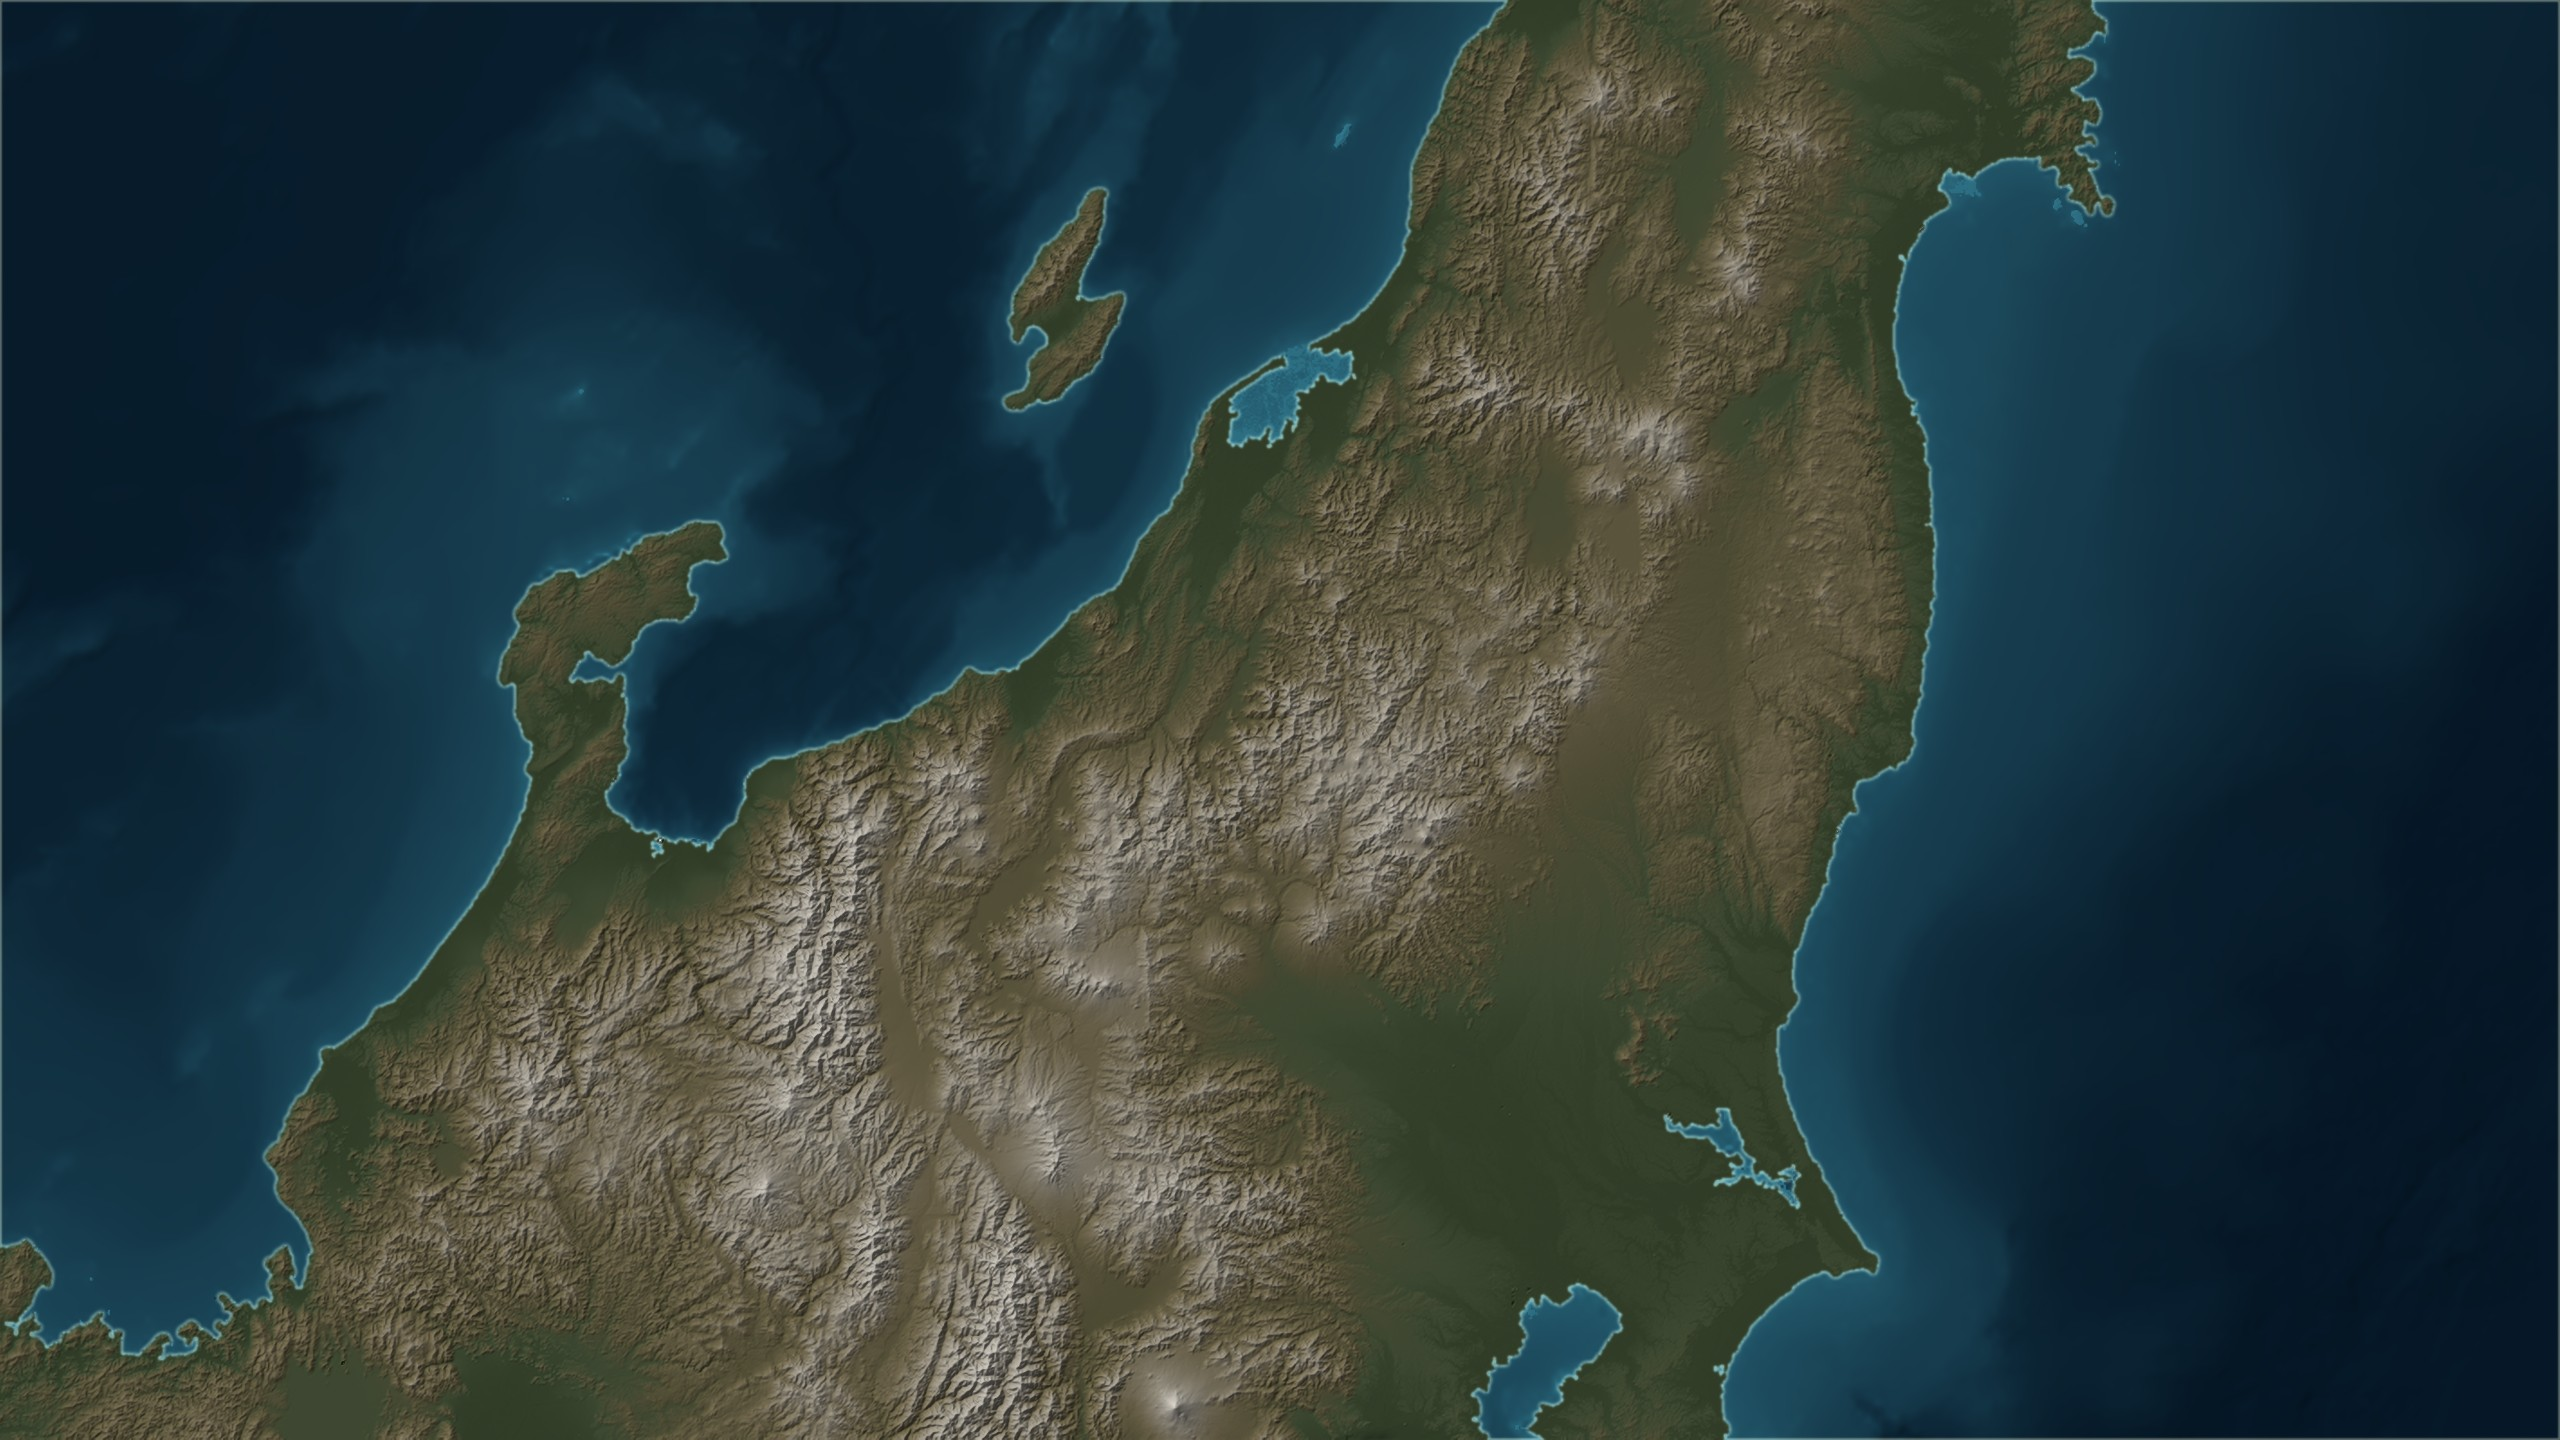
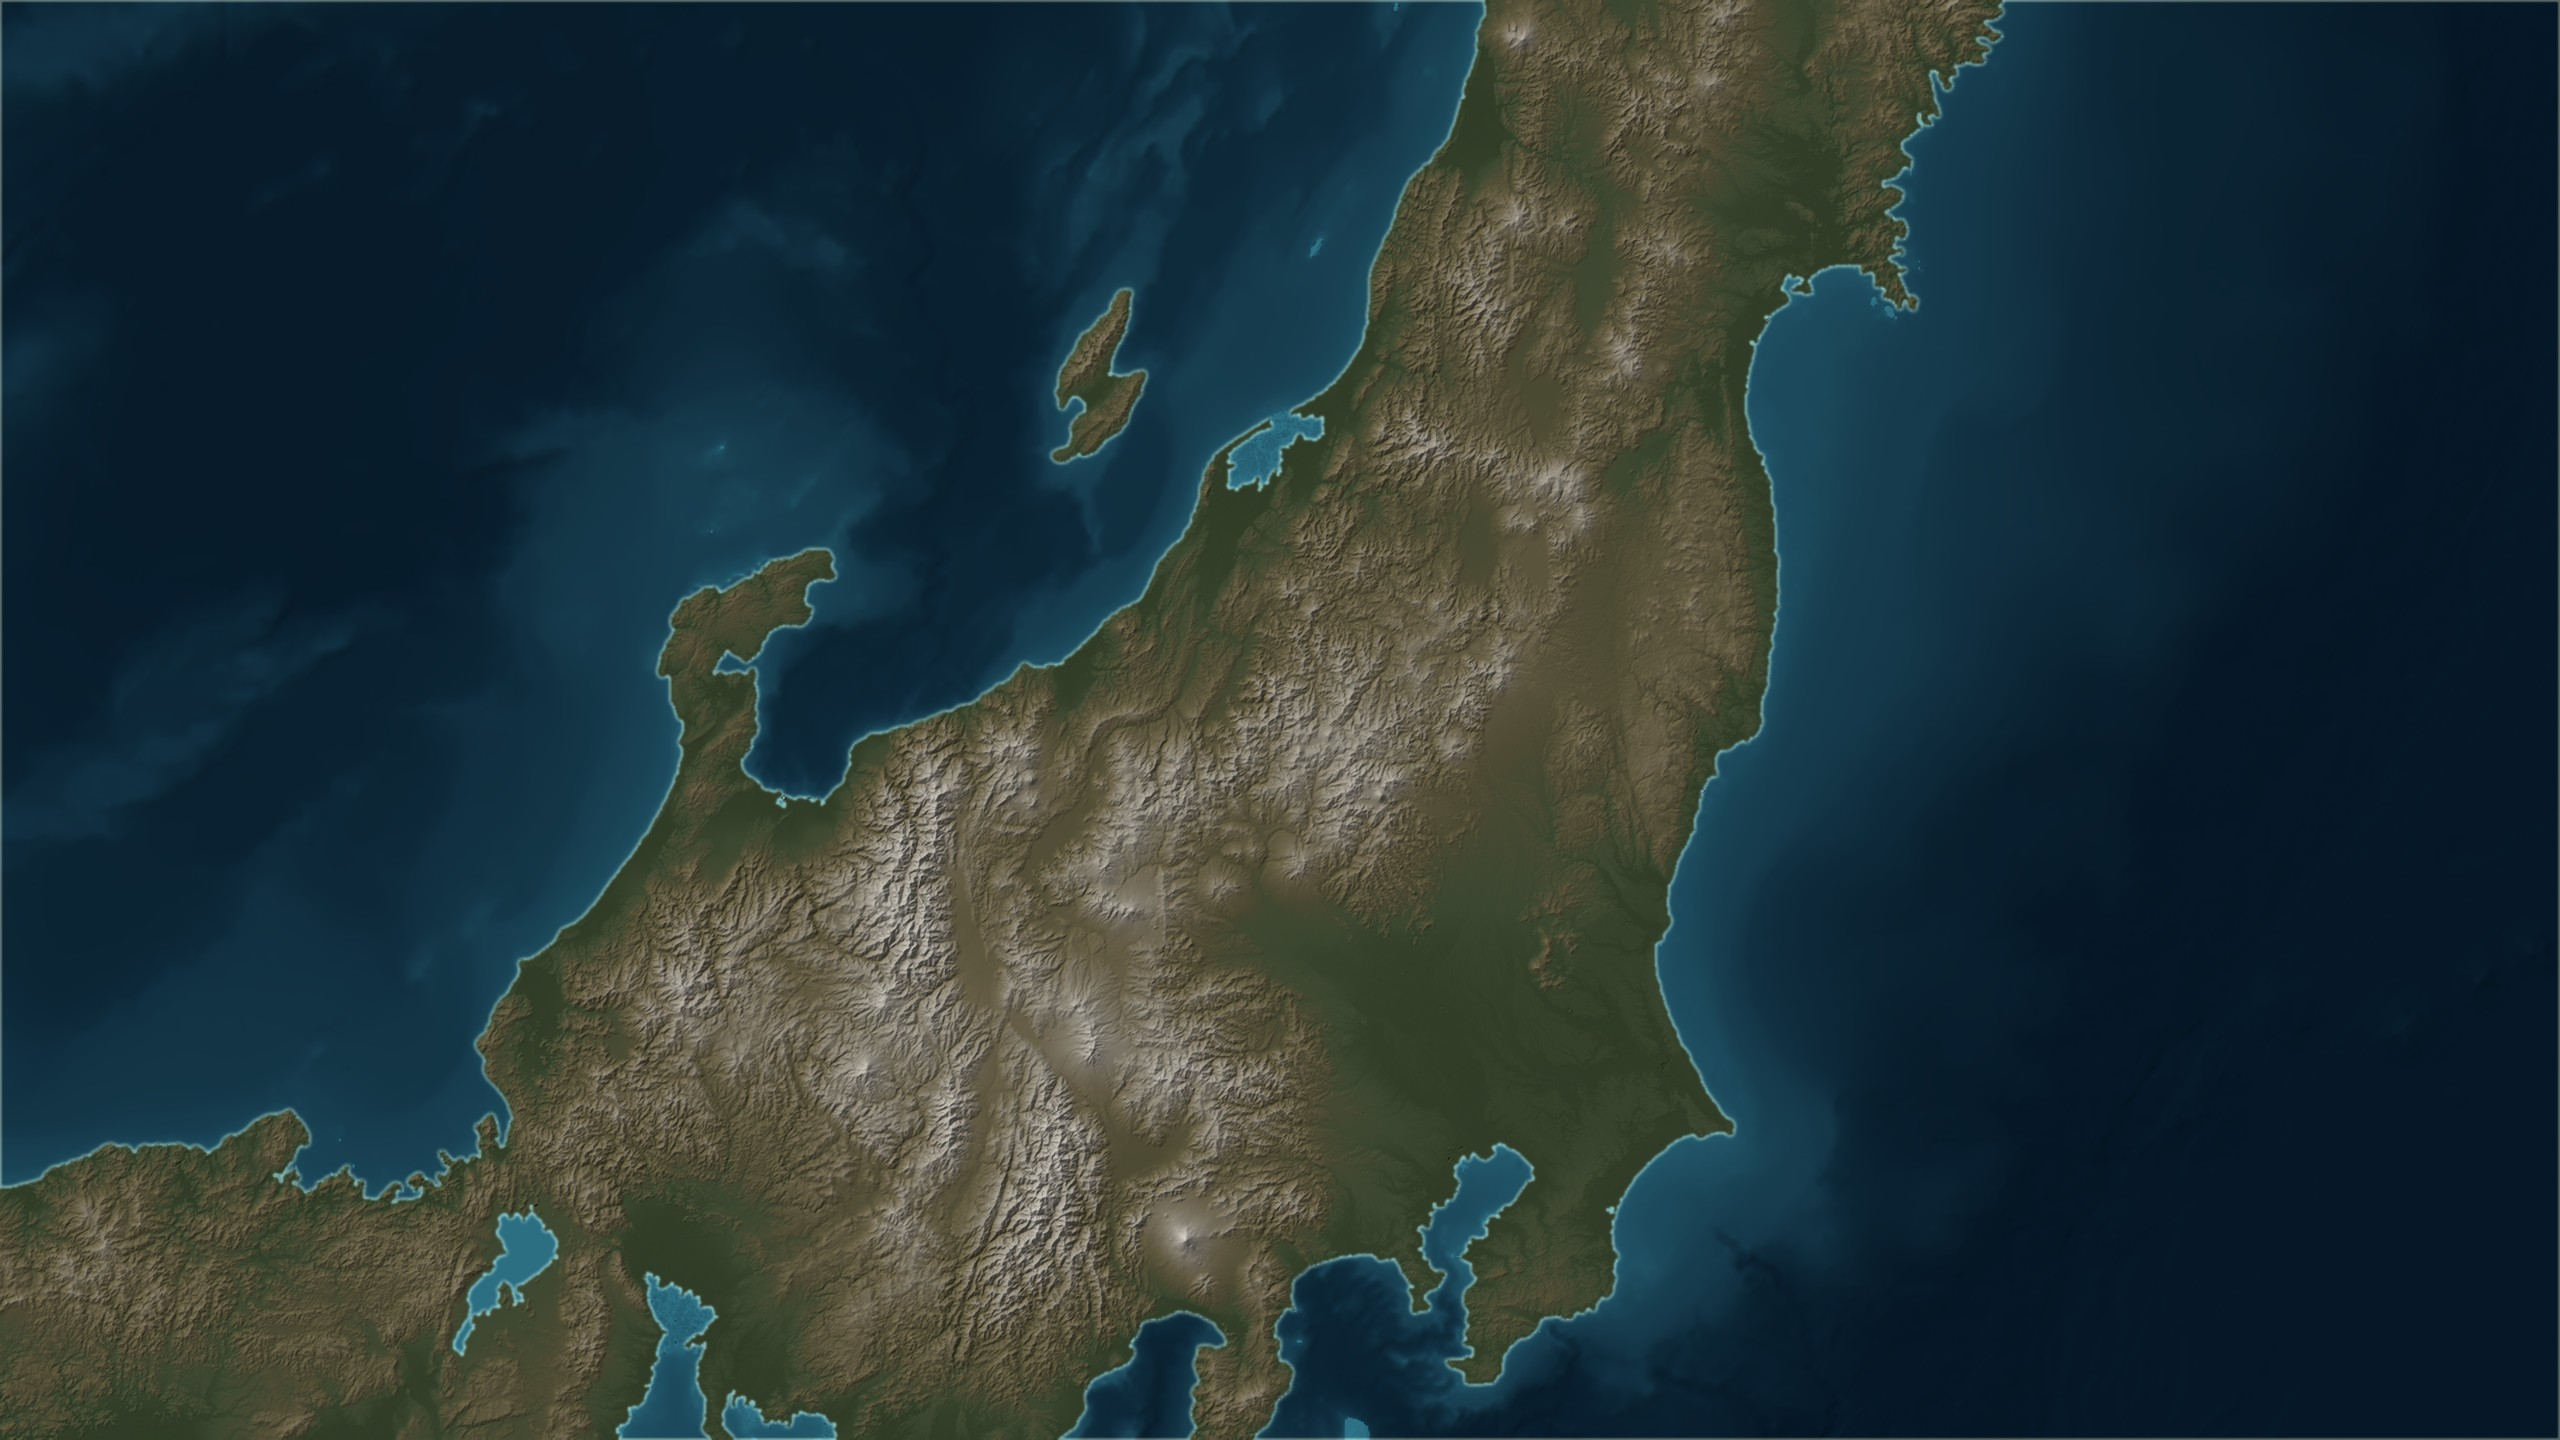
habi-sokushin：図解・地図の見え方を修正
Claude-Session: https://claude.ai/code/session_01BYpZQXYNUwHTnyuBiz7NfV

diff --git a/habi-sokushin/src/scenes/Clue18Fly.tsx b/habi-sokushin/src/scenes/Clue18Fly.tsx
@@ -1,7 +1,8 @@
 import {useVideoConfig} from 'remotion';
 import {Beat, captionFrame} from '../components/Beat';
 import {Stage} from '../components/Cinema';
-import {BigYears, Flow, LegendGap} from '../components/SokushinArt';
+import {TimeBar} from '../components/IzumoKit';
+import {BigYears, Flow} from '../components/SokushinArt';
 import {GavelVerdict} from '../components/GavelVerdict';
 import {Photo} from '../components/Photo';
 import {SceneFrame} from '../components/SceneFrame';
@@ -25,7 +26,7 @@ export const Clue18Fly = () => {
 			</Beat>
 			<Beat name="冬に土に入ったはずなのに" captions={c} from={3} to={4}>
 				<Stage label="冬に土に入ったはずなのに">
-					<LegendGap from={0} to={12} marks={[{year: 1, label: '1月・2月\n入定と伝わる'}, {year: 6, label: 'ハエが\n育つ季節', story: true}]} gapLabel='合わない季節' />
+					<TimeBar stops={[{label: '1月・2月', sub: '入定と伝わる'}, {label: '暖かい季節', sub: 'ハエが育つ', accent: true}]} tone='night' />
 				</Stage>
 			</Beat>
 			<Beat name="小片保氏の推測" captions={c} from={5} to={5}>

diff --git a/habi-sokushin/src/scenes/Clue1Count.tsx b/habi-sokushin/src/scenes/Clue1Count.tsx
@@ -15,7 +15,7 @@ export const Clue1Count = () => {
 		<SceneFrame captions={c} voice="Clue1Count" label="第1の手がかり" title="即身仏は、日本に十数体しかない？">
 			<Beat name="全国で16〜18体" captions={c} from={0} to={2}>
 				<Stage label="全国で16〜18体" labelBottom>
-					<ReliefMap view='japan' zoom={1.04} pins={[{at: P.tsuruoka, name: '庄内', sub: '6体', big: true, t: 6, dy: 90}, {at: P.yonezawa, name: '置賜', sub: '2体', t: 24, dy: 70}, {at: P.murakami, name: '新潟', sub: '4体', t: 40, dx: -80}, {at: P.asakawa, name: '福島', t: 56}, {at: P.sakuragawa, name: '茨城', t: 66}, {at: P.anan, name: '長野', t: 76}, {at: P.sojiji, name: '神奈川', t: 86, dy: 60}]} />
+					<ReliefMap view='japan' zoom={1.04} pins={[{at: P.tsuruoka, name: '庄内', sub: '6体', big: true, t: 6, dy: 90}, {at: P.yonezawa, name: '置賜', sub: '2体', t: 24, dy: 70}, {at: P.murakami, name: '新潟', sub: '4体', t: 40, dx: -80}, {at: P.asakawa, name: '福島', t: 56}]} />
 				</Stage>
 			</Beat>
 			<Beat name="資料によって違う数" captions={c} from={3} to={3}>

diff --git a/habi-sokushin/src/scenes/Clue26Dochu.tsx b/habi-sokushin/src/scenes/Clue26Dochu.tsx
@@ -15,7 +15,7 @@ export const Clue26Dochu = () => {
 		<SceneFrame captions={c} voice="Clue26Dochu" label="第26の手がかり" title="土中入定と即身仏は、同じ信仰だった？">
 			<Beat name="各地の入定塚" captions={c} from={0} to={1}>
 				<Stage label="各地の入定塚" labelBottom>
-					<ReliefMap view='japan' zoom={1.25} focus={P.inagi} pins={[{at: P.inagi, name: '稲城の入定塚', sub: '1536年 長信上人', big: true, t: 6}, {at: P.shirataka, name: '白鷹町 光明海', sub: '1854年', t: 40}]} />
+					<ReliefMap view='japan' zoom={1.25} focus={P.shirataka} pins={[{at: P.shirataka, name: '白鷹町 光明海', sub: '1854年に入定と伝わる', big: true, t: 6, dy: 80}]} />
 				</Stage>
 			</Beat>
 			<Beat name="塚を掘ると" captions={c} from={2} to={4}>

diff --git a/habi-sokushin/src/scenes/Clue10Honmyokai.tsx b/habi-sokushin/src/scenes/Clue10Honmyokai.tsx
@@ -15,7 +15,7 @@ export const Clue10Honmyokai = () => {
 		<SceneFrame captions={c} voice="Clue10Honmyokai" label="第10の手がかり" title="本明海上人は、藩主の身代わりになった？">
 			<Beat name="鶴岡市東岩本" captions={c} from={0} to={0}>
 				<Stage label="鶴岡市東岩本" labelBottom>
-					<ReliefMap view='shonai' zoom={1.1} pins={[{at: P.honmyoji, name: '本明寺', sub: '本明海上人', big: true, t: 6}, {at: P.tsuruoka, name: '鶴岡', t: 30, dy: 70}, {at: P.yudono, name: '湯殿山', t: 50}]} />
+					<ReliefMap view='shonai' zoom={1.1} pins={[{at: P.honmyoji, name: '本明寺', sub: '本明海上人', big: true, t: 6}, {at: P.yudono, name: '湯殿山', t: 50}]} />
 				</Stage>
 			</Beat>
 			<Beat name="庄内藩の武士" captions={c} from={1} to={1}>

diff --git a/habi-sokushin/src/scenes/Clue31Myokai.tsx b/habi-sokushin/src/scenes/Clue31Myokai.tsx
@@ -17,8 +17,8 @@ export const Clue31Myokai = () => {
 				<Photo id="sensoji-incense" move="in" label="寺と檀家" />
 			</Beat>
 			<Beat name="山形県米沢市" captions={c} from={2} to={2}>
-				<Stage label="山形県米沢市" labelBottom>
-					<ReliefMap view='shonai' zoom={1.0} pins={[{at: P.yonezawa, name: '米沢', sub: '明海上人', big: true, t: 6}, {at: P.yudono, name: '湯殿山', t: 40}, {at: P.tsuruoka, name: '鶴岡', t: 60}]} />
+				<Stage label="山形県米沢市">
+					<ReliefMap view='shonai' zoom={1.0} pins={[{at: P.yonezawa, name: '米沢', sub: '明海上人', big: true, t: 6, dy: -40}, {at: P.yudono, name: '湯殿山', t: 40}]} />
 				</Stage>
 			</Beat>
 			<Beat name="目を治すために" captions={c} from={3} to={3}>

diff --git a/habi-sokushin/src/scenes/UnsolvedMystery.tsx b/habi-sokushin/src/scenes/UnsolvedMystery.tsx
@@ -24,7 +24,7 @@ export const UnsolvedMystery = () => {
 			</Beat>
 			<Beat name="研究は続く" captions={c} from={5} to={6}>
 				<Stage label="研究は続く">
-					<TimeBar stops={[{label: '1960年代', sub: '学術調査'}, {label: '2022年', sub: '国立科学博物館の目録'}, {label: '2025年7月', sub: '内藤正敏氏が亡くなる'}, {label: '2025年12月', sub: '新しい研究の本', accent: true}]} tone='ink' />
+					<TimeBar stops={[{label: '1960年代', sub: '学術調査'}, {label: '2022年', sub: '国立科学博物館の目録'}, {label: '2025年', sub: '内藤氏が亡くなる・新刊', accent: true}]} tone='ink' />
 				</Stage>
 			</Beat>
 			<Beat name="伝承と科学のあいだ" captions={c} from={7}>

diff --git a/habi-sokushin/src/scenes/Clue20Kouchi.tsx b/habi-sokushin/src/scenes/Clue20Kouchi.tsx
@@ -24,8 +24,8 @@ export const Clue20Kouchi = () => {
 			<Beat name="鈴木牧之『北越雪譜』" captions={c} from={2} to={2}>
 				<Photo id="kouchi-hokuetsu" move="in" label="鈴木牧之『北越雪譜』" />
 			</Beat>
-			<Beat name="江戸での開帳" captions={c} from={3} to={3}>
-				<Photo id="teradomari-street" move="in" label="江戸での開帳" />
+			<Beat name="長岡市寺泊" captions={c} from={3} to={3}>
+				<Photo id="teradomari-street" move="in" label="長岡市寺泊" />
 			</Beat>
 			<Beat name="大英博物館で見つかった台本" captions={c} from={4} to={4}>
 				<Photo id="british-museum-court" move="in" label="大英博物館で見つかった台本" />

diff --git a/habi-sokushin/src/scenes/Clue11Shinnyokai.tsx b/habi-sokushin/src/scenes/Clue11Shinnyokai.tsx
@@ -12,8 +12,8 @@ export const Clue11Shinnyokai = () => {
 	const {fps} = useVideoConfig();
 	return (
 		<SceneFrame captions={c} voice="Clue11Shinnyokai" label="第11の手がかり" title="真如海上人は、大飢饉の年に入定した？">
-			<Beat name="鶴岡市大網 大日坊" captions={c} from={0} to={0}>
-				<Photo id="yudono-uba-gassan" move="in" label="鶴岡市大網 大日坊" />
+			<Beat name="大日坊の真如海上人" captions={c} from={0} to={0}>
+				<Photo id="yudono-uba-gassan" move="in" label="大日坊の真如海上人" />
 			</Beat>
 			<Beat name="天明の大飢饉の年" captions={c} from={1} to={2}>
 				<Stage label="天明の大飢饉の年">

diff --git a/habi-sokushin/src/scenes/Clue30Lost.tsx b/habi-sokushin/src/scenes/Clue30Lost.tsx
@@ -17,7 +17,7 @@ export const Clue30Lost = () => {
 			</Beat>
 			<Beat name="火事と博覧会" captions={c} from={1} to={3}>
 				<Stage label="火事と博覧会">
-					<TimeBar stops={[{label: '1875年', sub: '大日坊の大火 2体'}, {label: '1880年', sub: '津川の大火'}, {label: '1921年ごろ', sub: '博覧会へ・行方不明', accent: true}]} tone='ember' />
+					<TimeBar stops={[{label: '1875年', sub: '大日坊の大火 2体'}, {label: '1880年', sub: '津川の大火'}, {label: '1921年', sub: '博覧会へ・行方不明', accent: true}]} tone='ember' />
 				</Stage>
 			</Beat>
 			<Beat name="2011年 東日本大震災" captions={c} from={4} to={4}>

diff --git a/habi-sokushin/src/scenes/Clue28Zhanggong.tsx b/habi-sokushin/src/scenes/Clue28Zhanggong.tsx
@@ -29,7 +29,7 @@ export const Clue28Zhanggong = () => {
 			</Beat>
 			<Beat name="返還を求める裁判" captions={c} from={4} to={5}>
 				<Stage label="返還を求める裁判">
-					<TimeBar stops={[{label: '1995年', sub: '盗まれる'}, {label: '2015年', sub: '展示で見つかる'}, {label: '2022年7月19日', sub: '返還を命じる判決', accent: true}]} tone='shrine' />
+					<TimeBar stops={[{label: '1995年', sub: '盗まれる'}, {label: '2015年', sub: '展示で見つかる'}, {label: '2022年', sub: '返還を命じる判決', accent: true}]} tone='shrine' />
 				</Stage>
 			</Beat>
 			<Beat name="いまどこに" captions={c} from={6} to={7}>

diff --git a/habi-sokushin/src/scenes/Clue32Koromo.tsx b/habi-sokushin/src/scenes/Clue32Koromo.tsx
@@ -12,8 +12,8 @@ export const Clue32Koromo = () => {
 	const {fps} = useVideoConfig();
 	return (
 		<SceneFrame captions={c} voice="Clue32Koromo" label="第32の手がかり" title="即身仏は、いまも衣を替えて祀られている？">
-			<Beat name="鶴岡市 大日坊" captions={c} from={0} to={0}>
-				<Photo id="shonai-plain" move="in" label="鶴岡市 大日坊" />
+			<Beat name="大日坊の衣替え" captions={c} from={0} to={0}>
+				<Photo id="shonai-plain" move="in" label="大日坊の衣替え" />
 			</Beat>
 			<Beat name="真如海上人の衣替え" captions={c} from={1} to={2}>
 				<Stage label="真如海上人の衣替え">

diff --git a/habi-sokushin/src/scenes/Clue12Eye.tsx b/habi-sokushin/src/scenes/Clue12Eye.tsx
@@ -12,8 +12,8 @@ export const Clue12Eye = () => {
 	const {fps} = useVideoConfig();
 	return (
 		<SceneFrame captions={c} voice="Clue12Eye" label="第12の手がかり" title="鉄門海上人は、自分の目をくりぬいた？">
-			<Beat name="鶴岡市大網 注連寺" captions={c} from={0} to={0}>
-				<Photo id="gassan" move="in" label="鶴岡市大網 注連寺" />
+			<Beat name="注連寺の鉄門海上人" captions={c} from={0} to={0}>
+				<Photo id="gassan" move="in" label="注連寺の鉄門海上人" />
 			</Beat>
 			<Beat name="寺の公式の説明" captions={c} from={1} to={1}>
 				<Stage label="寺の公式の説明">
